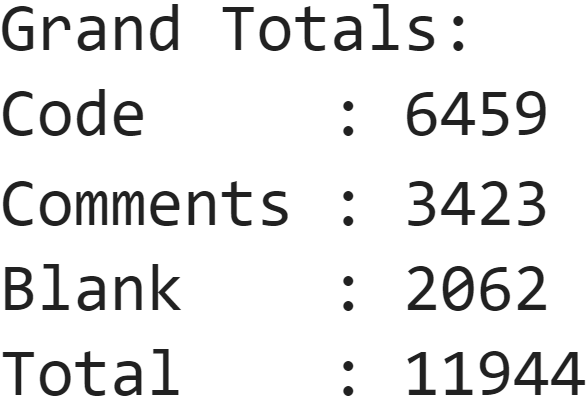
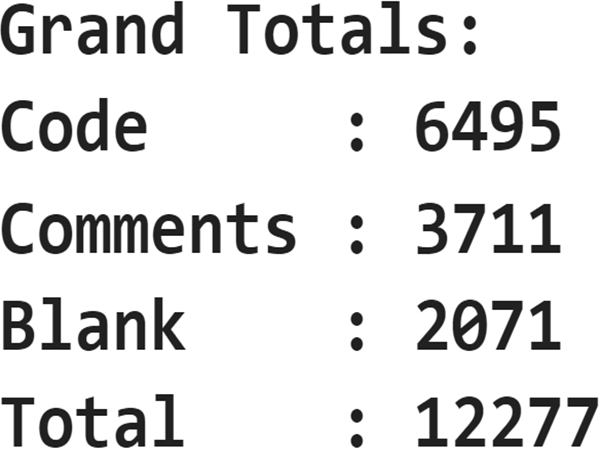
Added MATLAB %{ ... %} block comment feature.

diff --git a/countLines.m b/countLines.m
@@ -237,6 +237,25 @@ for k = 1:total
         continue;
     end
 
+    % --- MATLAB block comment begin (%{) ---
+    if contains(L, '%{')
+        comments = comments + 1;
+        inBlockComment = true;
+        if contains(L, '%}')
+            inBlockComment = false;
+        end
+        continue;
+    end
+
+    % --- inside MATLAB %{ ... %} block comment ---
+    if inBlockComment
+        comments = comments + 1;
+        if contains(L, '%}')
+            inBlockComment = false;
+        end
+        continue;
+    end
+
     % --- otherwise: code line ---
     code = code + 1;
 end
